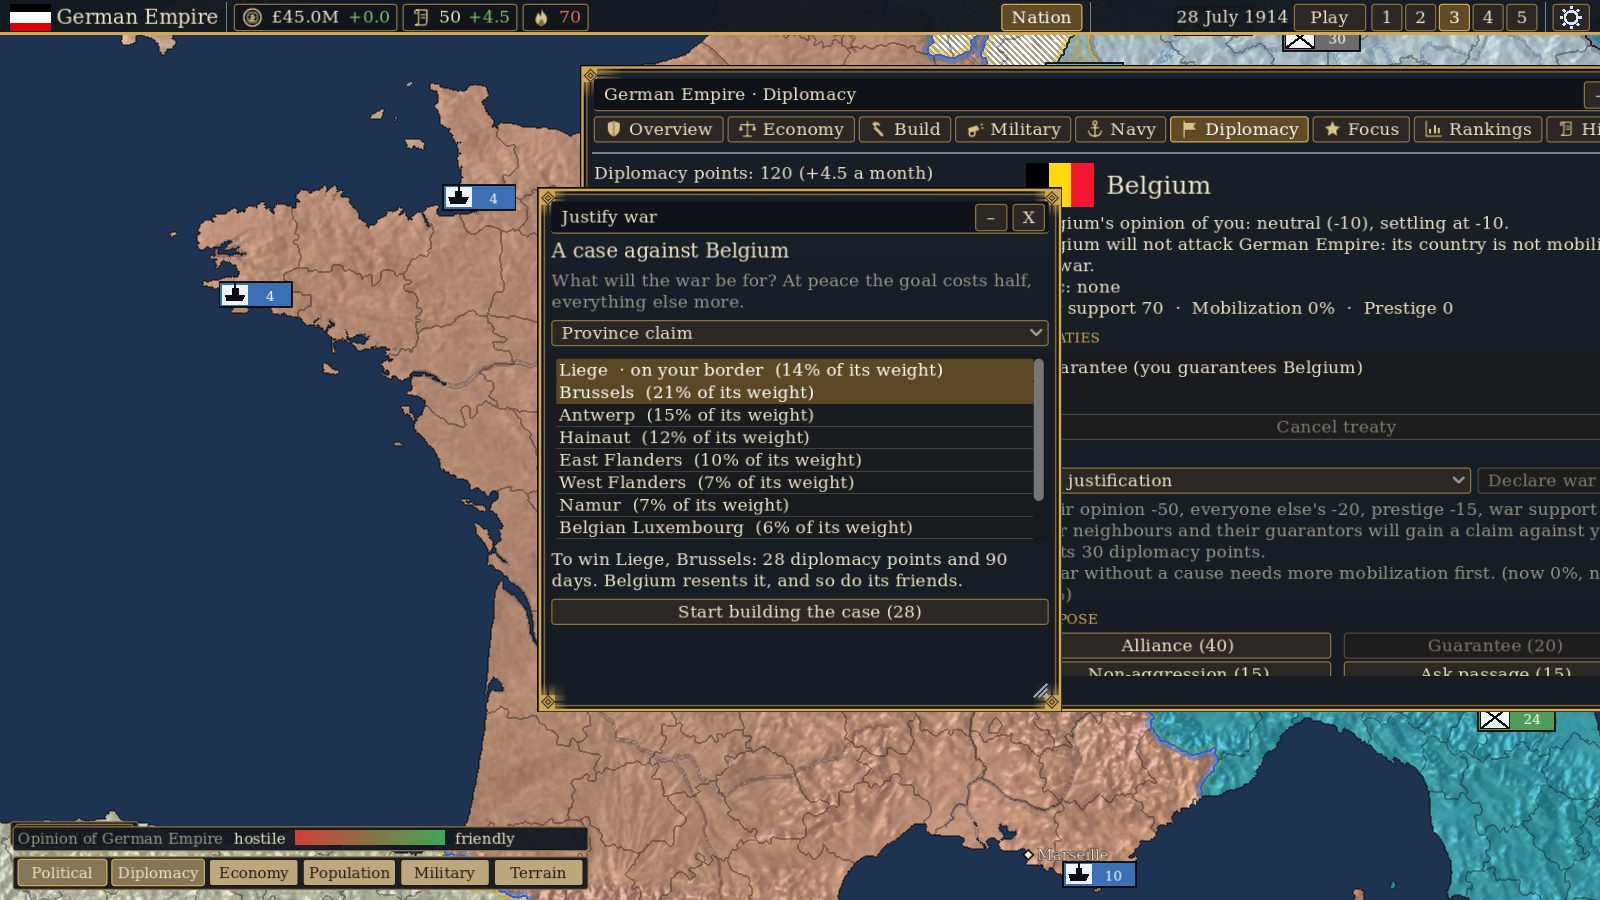
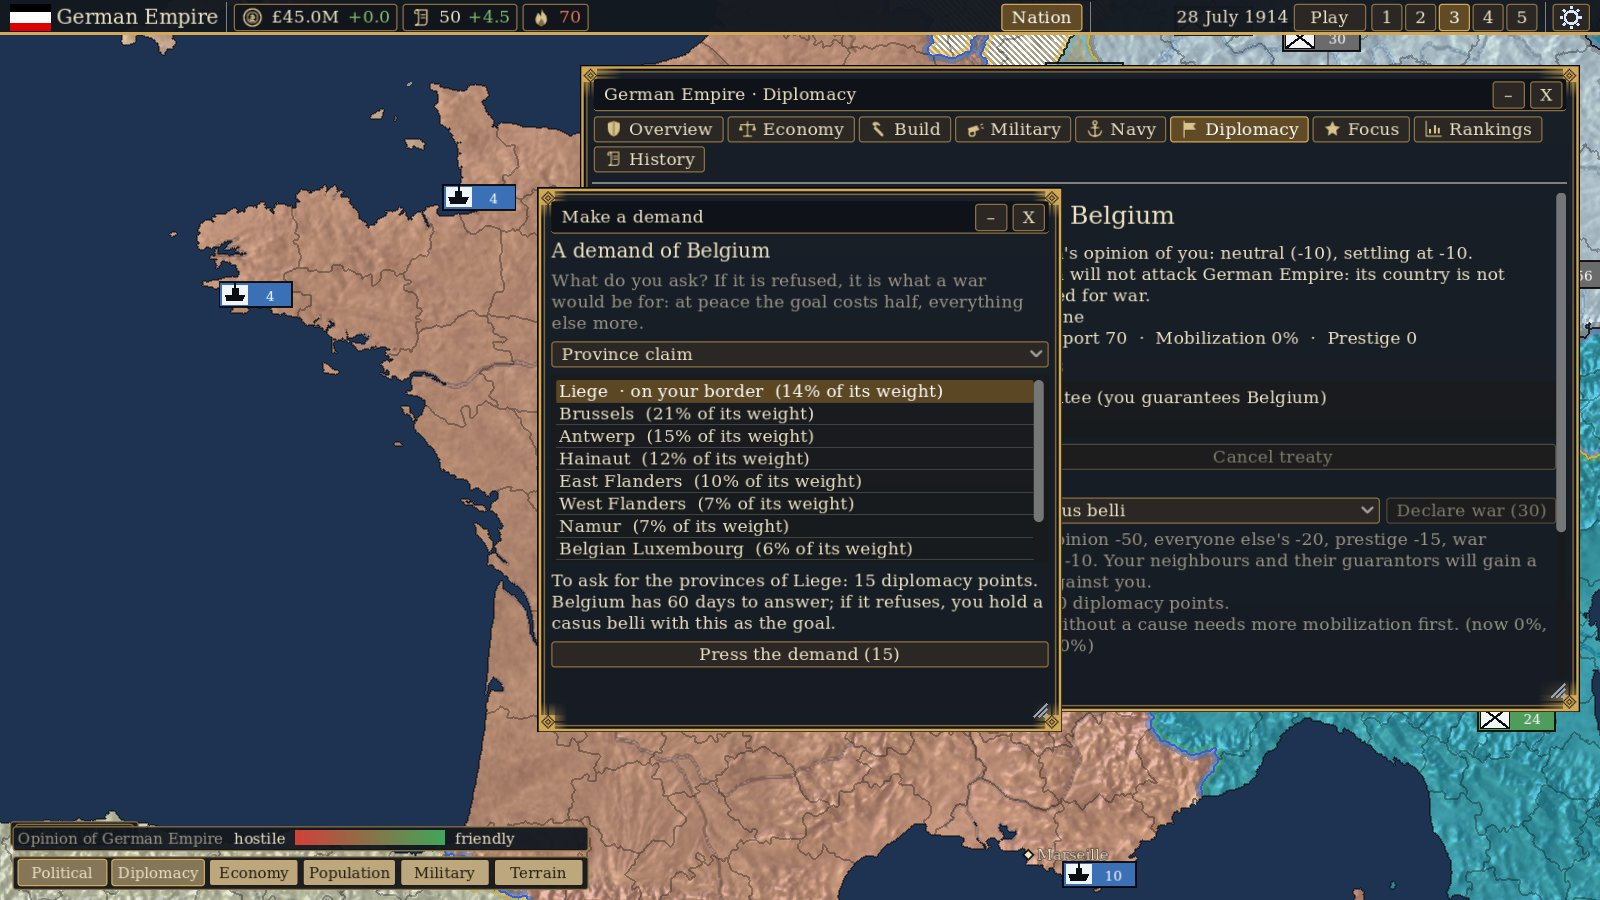
Docs, tutorial and versions (plan step 8, v0.10.2)
The tutorial teaches demands, how a war ends (war score and peace) and arms production (16
steps; tutorial_test drives the new ones). The README describes the game as it now plays and
how training starts; the demand picker's screenshot is new (and says "to ask for"). The
CHANGELOG has 0.10.2. The releases and the playtests are left to people: PLAN.md says why.

Claude-Session: https://claude.ai/code/session_01JoDt3oVA9dPF4kqnvDaZV2

Changed region(s): [[0.3125, 0.0622, 1.0, 0.84], [0.8438, 0.3422, 0.9062, 0.4044]]

diff --git a/README.md b/README.md
@@ -3,8 +3,9 @@
 A real-time historical-pressure sandbox on a map of Europe (flat, or in 3D with real terrain relief).
 Start in January 1900, at peace, or in July 1914 with the crisis already under way. Pick any of 22 nations,
 run its economy, armies, navy, diplomacy and national focus, and steer through the crises that pushed the
-great powers toward war. Europe's tension rises with the arms race and rivalry; events put choices to you; the
-AI plays every other nation. There is no score and no ending: it is an open sandbox, and whether the great war comes is up to you and them. The design is
+great powers toward war. Europe's tension rises with the arms race and rivalry; demands with a deadline give wars
+their reasons; the guns need the shells your industry makes; events put choices to you, small nation or great power;
+and after a great war the world goes on, with old losses to avenge. The AI plays every other nation. There is no score and no ending: it is an open sandbox, and whether the great war comes is up to you and them. The design is
 in [DESIGN.md](DESIGN.md); [MANUAL.md](MANUAL.md) is a player's guide, and [CHANGELOG.md](CHANGELOG.md) lists what changed.
 
 ![The political map, July 1914](docs/screenshots/map.jpg)
@@ -12,7 +13,7 @@ in [DESIGN.md](DESIGN.md); [MANUAL.md](MANUAL.md) is a player's guide, and [CHAN
 | | |
 |---|---|
 | ![Armies and fronts at war](docs/screenshots/war.jpg) | ![The cabinet briefing](docs/screenshots/briefing.jpg) |
-| ![Choosing what a war is for](docs/screenshots/war-goals.jpg) | ![Peace talks with a war goal](docs/screenshots/peace-talks.jpg) |
+| ![Choosing what to demand](docs/screenshots/war-goals.jpg) | ![Peace talks with a war goal](docs/screenshots/peace-talks.jpg) |
 
 ## Running it
 
@@ -68,7 +69,7 @@ cost of a day; `tools/ai_report.gd` plays the whole AI war and prints a month-by
 
 ## Training the AI
 
-The AI's numbers (`data/ai.json`) were tuned by self-play, with no scripted plans: `python tools/ai_train.py run 10` trains from the saved state in `tools/ai_training/` (set `GODOT`, and `WORKERS` for the games played at once), `python tools/ai_train.py test 16` plays the trained numbers against the starting ones on fresh seeds, and `apply` writes them into `data/ai.json`. `tools/ai_watch.gd`, `ai_wars.gd`, `ai_battles.gd`, `ai_scoreboard.gd` and `war_length.gd` show what the AI is doing.
+The AI's numbers (`data/ai.json`) were tuned by self-play, with no scripted plans: `python tools/ai_train.py run 10` trains (from `tools/ai_training/state.json`, or afresh from `data/ai.json`; past rounds are kept in `round1/` to `round3/`) (set `GODOT`, and `WORKERS` for the games played at once), `python tools/ai_train.py test 16` plays the trained numbers against the starting ones on fresh seeds, and `apply` writes them into `data/ai.json`. `tools/ai_watch.gd`, `ai_wars.gd`, `ai_battles.gd`, `ai_scoreboard.gd` and `war_length.gd` show what the AI is doing.
 
 ## Layout
 

diff --git a/PLAN.md b/PLAN.md
@@ -59,7 +59,7 @@ against the baseline in `docs/baseline.md`.
 | 5 | Peacetime decisions: demands replace justification, one public stand, small nations, ambitions | M | done (v0.10.0) |
 | 6 | Leftovers: mediation, cavalry | S | done (v0.10.1) |
 | 7 | Retrain the AI under the new rules | L | done: trained and declined; the carried checks stay open |
-| 8 | Docs, versions and playtests | S | |
+| 8 | Docs, versions and playtests | S | docs and versions done (v0.10.2); releases and playtests left to people |
 
 ## Steps in detail
 
@@ -313,6 +313,10 @@ three parts, in order; each part ends green and measured.
   in July 1914 holding the Marne (the front tools, and the shell shortage); Russia told to take Berlin by 1905 (the step
   1 snowball, against a human); a first-time player after the tutorial alone (the first hour); Belgium for two hours
   (small-nation interest). A result that contradicts the runs sends its step back.
+- **Result:** DESIGN, MANUAL, README and the CHANGELOG were kept with each step (0.6.0 to 0.10.2 on `project.godot`);
+  the tutorial has steps for demands, how a war ends and arms production (16 steps, `tutorial_test`); the demand
+  picker's screenshot is new. Not done here: the releases (they are public and are published from the main branch, so
+  that is the owner's call once this branch is merged) and the playtests, which need people.
 
 ## Quality gates
 

diff --git a/CHANGELOG.md b/CHANGELOG.md
@@ -6,6 +6,14 @@ finished.
 The version lives in `project.godot` (`application/config/version`), shows in the corner of the main menu, and names
 the Windows build the CI attaches to each release.
 
+## 0.10.2
+
+- The tutorial teaches demands, how a war ends (war score and peace) and arms production.
+- A great power gives up at most a quarter of its provinces at one peace (a beaten Britain could lose nearly half).
+- The AI was trained again under the new rules; the new numbers made wars shorter and broke the shell shortage of 1914,
+  so the old ones stay (DESIGN.md has the account).
+- The README and the demand picker's screenshot follow the new rules.
+
 ## 0.10.1
 
 - Cavalry has a role: it takes ground after a battle in half the time and harries a beaten army as it falls back (up to
